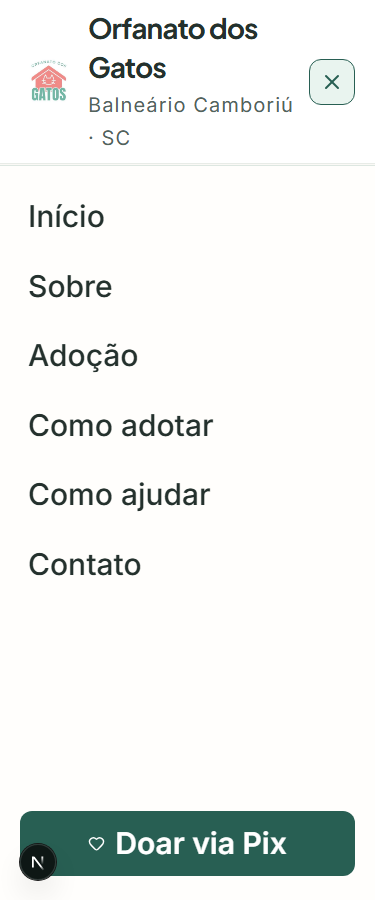
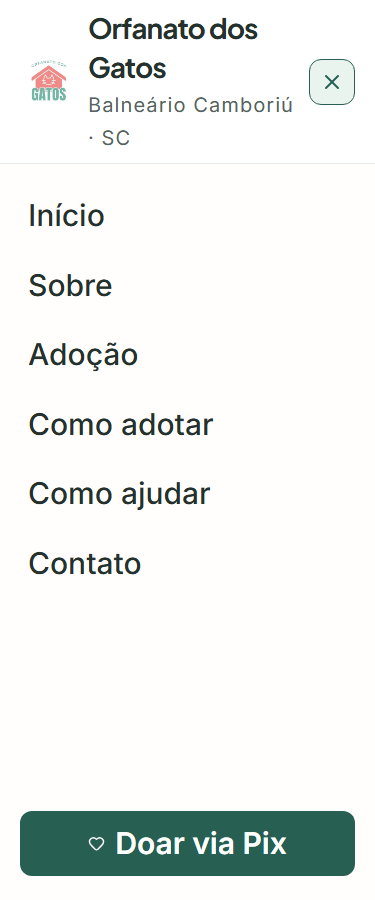
feat: enhance mobile navigation with overlay and improved accessibility

diff --git a/src/components/MobileNavigation.tsx b/src/components/MobileNavigation.tsx
@@ -1,14 +1,26 @@
 'use client';
-import { useEffect, useLayoutEffect, useRef, useState } from 'react';
+import { useEffect, useLayoutEffect, useRef, useState, useSyncExternalStore } from 'react';
+import { createPortal } from 'react-dom';
 import { Heart, Menu, X } from 'lucide-react';
 import { navigation } from '@/config/site';
 
 export function MobileNavigation() {
   const [open, setOpen] = useState(false);
+  const mounted = useSyncExternalStore(() => () => {}, () => true, () => false);
+  const desktop = useSyncExternalStore(
+    callback => {
+      const query = window.matchMedia('(min-width: 1024px)');
+      query.addEventListener('change', callback);
+      return () => query.removeEventListener('change', callback);
+    },
+    () => window.matchMedia('(min-width: 1024px)').matches,
+    () => false,
+  );
   const toggle = useRef<HTMLButtonElement>(null);
   const container = useRef<HTMLDivElement>(null);
   const panel = useRef<HTMLElement>(null);
   const pendingFocus = useRef<HTMLElement | null>(null);
+  const pendingNavigation = useRef<string | null>(null);
 
   useLayoutEffect(() => {
     const header = container.current?.closest('header');
@@ -29,20 +41,39 @@ export function MobileNavigation() {
 
     const root = document.documentElement;
     const body = document.body;
+    const scrollX = window.scrollX;
+    const scrollY = window.scrollY;
     const previousRootOverflow = root.style.overflow;
+    const previousRootOverscrollBehavior = root.style.overscrollBehavior;
+    const previousRootScrollBehavior = root.style.scrollBehavior;
     const previousBodyOverflow = body.style.overflow;
+    const previousBodyPosition = body.style.position;
+    const previousBodyTop = body.style.top;
+    const previousBodyLeft = body.style.left;
+    const previousBodyRight = body.style.right;
+    const previousBodyWidth = body.style.width;
     const background = Array.from(document.querySelectorAll<HTMLElement>('main, .site-footer, .skip-link'));
+    const previousInert = new Map(background.map(element => [element, element.inert]));
     const focusable = () => [toggle.current, ...Array.from(panel.current?.querySelectorAll<HTMLElement>('a[href], button:not([disabled])') ?? [])].filter((element): element is HTMLElement => element !== null);
 
     root.style.overflow = 'hidden';
+    root.style.overscrollBehavior = 'none';
     body.style.overflow = 'hidden';
+    body.style.position = 'fixed';
+    body.style.top = `-${scrollY}px`;
+    body.style.left = `-${scrollX}px`;
+    body.style.right = '0';
+    body.style.width = '100%';
     body.dataset.mobileMenuOpen = 'true';
     background.forEach(element => { element.inert = true; });
 
+    function closeMenu() {
+      pendingFocus.current = toggle.current;
+      setOpen(false);
+    }
     function onKey(event: KeyboardEvent) {
       if (event.key === 'Escape') {
-        pendingFocus.current = toggle.current;
-        setOpen(false);
+        closeMenu();
         return;
       }
       if (event.key !== 'Tab') return;
@@ -59,10 +90,11 @@ export function MobileNavigation() {
       }
     }
     function onPointer(event: PointerEvent) {
-      if (!container.current?.contains(event.target as Node)) setOpen(false);
+      if (container.current?.contains(event.target as Node) || panel.current?.contains(event.target as Node)) return;
+      closeMenu();
     }
     const desktop = window.matchMedia('(min-width: 1024px)');
-    const onResize = () => { if (desktop.matches) setOpen(false); };
+    const onResize = () => { if (desktop.matches) closeMenu(); };
     document.addEventListener('keydown', onKey);
     document.addEventListener('pointerdown', onPointer);
     desktop.addEventListener('change', onResize);
@@ -72,34 +104,70 @@ export function MobileNavigation() {
       document.removeEventListener('pointerdown', onPointer);
       desktop.removeEventListener('change', onResize);
       root.style.overflow = previousRootOverflow;
+      root.style.overscrollBehavior = previousRootOverscrollBehavior;
       body.style.overflow = previousBodyOverflow;
+      body.style.position = previousBodyPosition;
+      body.style.top = previousBodyTop;
+      body.style.left = previousBodyLeft;
+      body.style.right = previousBodyRight;
+      body.style.width = previousBodyWidth;
       delete body.dataset.mobileMenuOpen;
-      background.forEach(element => { element.inert = false; });
+      previousInert.forEach((inert, element) => { element.inert = inert; });
+      root.style.scrollBehavior = 'auto';
+      if (scrollX !== 0 || scrollY !== 0) window.scrollTo(scrollX, scrollY);
+      root.style.scrollBehavior = previousRootScrollBehavior;
     };
   }, [open]);
 
   useEffect(() => {
-    if (open || !pendingFocus.current) return;
-    pendingFocus.current.focus({ preventScroll: true });
-    pendingFocus.current = null;
+    if (open) return;
+    const href = pendingNavigation.current;
+    if (href) {
+      pendingNavigation.current = null;
+      const target = document.getElementById(href.slice(1));
+      if (!target) return;
+      window.history.pushState(null, '', `${window.location.pathname}${window.location.search}${href}`);
+      target.focus({ preventScroll: true });
+      const frame = window.requestAnimationFrame(() => {
+        if (typeof target.scrollIntoView === 'function') {
+          target.scrollIntoView({
+            block: 'start',
+            behavior: window.matchMedia('(prefers-reduced-motion: reduce)').matches ? 'auto' : 'smooth',
+          });
+        }
+      });
+      return () => window.cancelAnimationFrame(frame);
+    }
+    if (pendingFocus.current) {
+      pendingFocus.current.focus({ preventScroll: true });
+      pendingFocus.current = null;
+    }
   }, [open]);
 
-  function select(href: string) {
+  function select(event: React.MouseEvent<HTMLAnchorElement>, href: string) {
+    event.preventDefault();
     if (!open) return;
-    pendingFocus.current = document.getElementById(href.slice(1));
+    pendingNavigation.current = href;
     setOpen(false);
   }
   function toggleMenu() {
     if (open) pendingFocus.current = toggle.current;
     setOpen(value => !value);
   }
+
+  const overlay = <nav ref={panel} id="main-navigation" className="nav-panel nav-panel-overlay" data-open={open} aria-hidden={!open || desktop} aria-label="Navegação principal">
+    {navigation.map(item => <a key={item.href} href={item.href} onClick={event => select(event, item.href)}>{item.label}</a>)}
+    <a className="button button-primary nav-donate" href="#doar" onClick={event => select(event, '#doar')}><Heart size={17} aria-hidden="true" />Doar via Pix</a>
+  </nav>;
+
   return <div className="navigation-container" ref={container}>
     <button ref={toggle} className="menu-toggle" type="button" aria-expanded={open} aria-controls="main-navigation" aria-label={open ? 'Fechar menu' : 'Abrir menu'} onClick={toggleMenu}>
       {open ? <X aria-hidden="true" /> : <Menu aria-hidden="true" />}
     </button>
-    <nav ref={panel} id="main-navigation" className="nav-panel" data-open={open} aria-label="Navegação principal">
-      {navigation.map(item => <a key={item.href} href={item.href} onClick={() => select(item.href)}>{item.label}</a>)}
-      <a className="button button-primary nav-donate" href="#doar" onClick={() => select('#doar')}><Heart size={17} aria-hidden="true" />Doar via Pix</a>
+    <nav className="nav-panel nav-panel-desktop" aria-hidden={mounted && !desktop} aria-label="Navegação principal">
+      {navigation.map(item => <a key={item.href} href={item.href}>{item.label}</a>)}
+      <a className="button button-primary nav-donate" href="#doar"><Heart size={17} aria-hidden="true" />Doar via Pix</a>
     </nav>
+    {mounted ? createPortal(overlay, document.body) : null}
   </div>;
 }

diff --git a/src/app/globals.css b/src/app/globals.css
@@ -58,12 +58,14 @@ section[id], main[id] { scroll-margin-top: calc(var(--measured-header-height, va
 .skip-link { position: fixed; top: 12px; left: 12px; padding: 14px 22px; border-radius: 8px; z-index: 100; color: white; background: var(--color-primary); transform: translateY(-180%); }
 .skip-link:focus { transform: translateY(0); }
 .site-header { height: var(--header-height); position: sticky; top: 0; z-index: 30; background: #FFFFFF; border-bottom: 1px solid #E8ECE7; }
+body[data-mobile-menu-open="true"] .site-header { position: fixed; inset: 0 0 auto; width: 100%; z-index: 10000; }
 .header-inner { height: 100%; display: flex; align-items: center; justify-content: space-between; gap: 24px; }
 .brand { display: inline-flex; gap: 11px; align-items: center; flex-shrink: 0; }
 .brand img { width: 64px; height: 64px; }
 .brand strong { display: block; font-family: var(--font-heading); font-size: .9375rem; letter-spacing: -.035em; line-height: 1.4; }
 .brand small { display: block; color: var(--color-muted); font-size: .6875rem; letter-spacing: .055em; margin-top: 3px; }
 .nav-panel { display: flex; align-items: center; gap: 23px; }
+.nav-panel-overlay { display: none; }
 .nav-panel > a { font-size: .8125rem; font-weight: 500; white-space: nowrap; }
 .nav-panel > a:not(.button) { min-height: 44px; display: flex; align-items: center; position: relative; }
 .nav-panel > a:not(.button):hover { color: var(--color-primary); }
@@ -235,8 +237,9 @@ section[id], main[id] { scroll-margin-top: calc(var(--measured-header-height, va
   .menu-toggle:hover, .menu-toggle[aria-expanded="true"] { background: var(--color-soft-green); border-color: var(--color-primary); }
   .menu-toggle:active { background: var(--color-border); }
   .navigation-container { margin-left: auto; }
-  .nav-panel { position: fixed; z-index: 40; top: var(--measured-header-height, var(--header-height)); right: 0; bottom: 0; left: 0; display: flex; flex-direction: column; align-items: stretch; gap: 4px; padding: 18px 32px max(24px, env(safe-area-inset-bottom)); overflow-y: auto; overscroll-behavior: contain; background: #FFFEFC; border-top: 1px solid var(--color-border); box-shadow: 0 20px 25px #24312D0A; opacity: 0; visibility: hidden; pointer-events: none; transform: translateY(-8px); transition: opacity .22s ease, transform .22s ease, visibility 0s linear .22s; }
-  .nav-panel[data-open="true"] { opacity: 1; visibility: visible; pointer-events: auto; transform: translateY(0); transition-delay: 0s; }
+  .nav-panel-desktop { display: none; }
+  .nav-panel-overlay { position: fixed; z-index: 9999; inset: 0; display: flex; flex-direction: column; align-items: stretch; gap: 4px; width: 100%; min-height: 100svh; height: 100dvh; padding: calc(var(--measured-header-height, var(--header-height)) + 18px) 32px max(24px, env(safe-area-inset-bottom)); overflow-y: auto; overscroll-behavior: contain; -webkit-overflow-scrolling: touch; background: #FFFEFC; border: 0; box-shadow: none; opacity: 0; visibility: hidden; pointer-events: none; transform: translateY(-8px); transition: opacity .22s ease, transform .22s ease, visibility 0s linear .22s; }
+  .nav-panel-overlay[data-open="true"] { opacity: 1; visibility: visible; pointer-events: auto; transform: translateY(0); transition-delay: 0s; }
   .nav-panel > a { font-size: .9375rem; min-height: 44px; padding: 8px; flex: 0 0 auto; }
   .nav-panel .nav-donate { margin: auto 0 0; }
   .hero-section { padding-top: 44px; }
@@ -275,7 +278,7 @@ section[id], main[id] { scroll-margin-top: calc(var(--measured-header-height, va
   .brand strong { font-size: .875rem; }
   .brand small { font-size: .625rem; }
   .header-inner { gap: 10px; }
-  .nav-panel { padding-inline: 20px; }
+  .nav-panel-overlay { padding-inline: 20px; }
   .hero-section { padding-top: 37px; }
   .location-label { margin-bottom: 22px; font-size: .6875rem; }
   h1 { font-size: clamp(2.5rem, 9.2vw, 3.7rem); line-height: 1.12; }

diff --git a/tests/e2e/final-review.spec.ts b/tests/e2e/final-review.spec.ts
@@ -33,13 +33,39 @@ test('menu aberto e âncora respeitam o cabeçalho com texto a 200%', async ({ p
   await page.goto(homePath);
   await page.addStyleTag({ content: 'html { font-size: 200% !important; }' });
   await page.getByRole('button', { name: 'Abrir menu' }).click();
-  const header = (await page.locator('.site-header').boundingBox())!;
   const nav = page.getByRole('navigation', { name: 'Navegação principal', exact: true });
-  expect((await nav.boundingBox())!.y).toBeGreaterThanOrEqual(header.height - 1);
+  expect((await nav.boundingBox())!.y).toBe(0);
+  expect(await page.evaluate(() => document.elementFromPoint(10, 10)?.closest('.site-header') !== null)).toBe(true);
   await page.screenshot({ path: 'docs/screenshots/375-menu-texto-200.png' });
   await nav.getByRole('link', { name: 'Adoção', exact: true }).click();
+  const header = (await page.locator('.site-header').boundingBox())!;
   await expect.poll(async () => (await page.locator('#adocao').boundingBox())!.y).toBeGreaterThanOrEqual(header.height);
 });
+
+for (const width of [360, 390, 430]) {
+  test(`menu mobile cobre a viewport e restaura a rolagem em ${width}px`, async ({ page }) => {
+    await page.setViewportSize({ width, height: 900 });
+    await page.goto(homePath);
+    await page.emulateMedia({ reducedMotion: 'reduce' });
+    await page.locator('#contato').scrollIntoViewIfNeeded();
+    const scrollBefore = await page.evaluate(() => window.scrollY);
+    expect(scrollBefore).toBeGreaterThan(0);
+
+    await page.getByRole('button', { name: 'Abrir menu' }).click();
+    const overlay = page.locator('#main-navigation');
+    await expect(overlay).toBeVisible();
+    const box = (await overlay.boundingBox())!;
+    expect(box.x).toBe(0);
+    expect(box.y).toBe(0);
+    expect(box.width).toBe(width);
+    expect(box.height).toBeGreaterThanOrEqual(899);
+    expect(await page.evaluate(() => document.body.style.position)).toBe('fixed');
+    expect(await page.evaluate(() => document.elementFromPoint(10, window.innerHeight - 10)?.id)).toBe('main-navigation');
+
+    await page.getByRole('button', { name: 'Fechar menu' }).click();
+    await expect.poll(() => page.evaluate(() => window.scrollY)).toBe(scrollBefore);
+  });
+}
 
 test('ações do Hero e todos os links internos do rodapé', async ({ page }) => {
   await page.goto(homePath);
